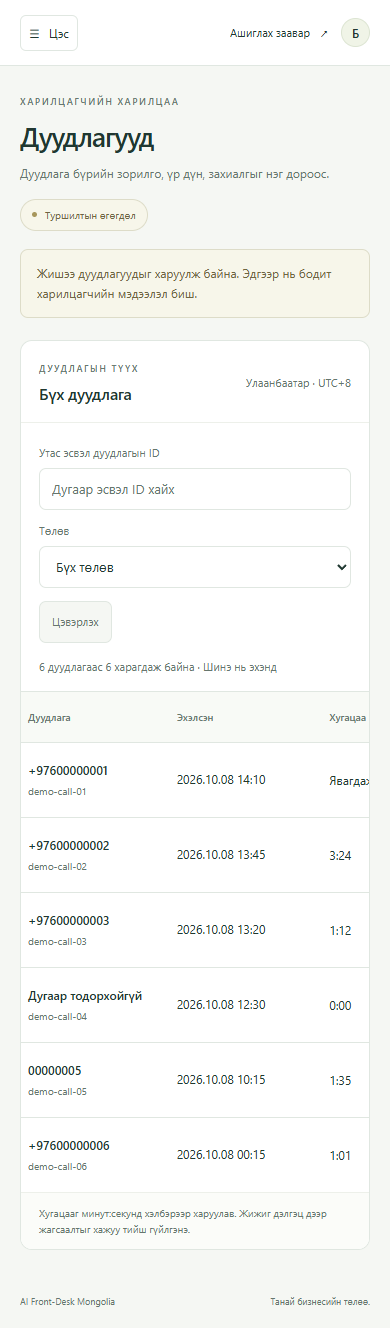
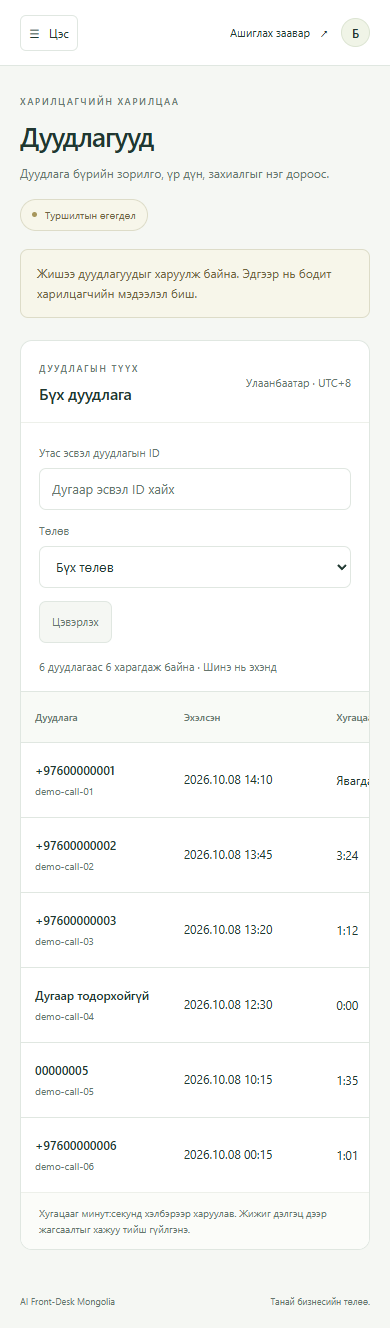
feat(web): add searchable bookings page

diff --git a/pwa/components/bookings-page.tsx b/pwa/components/bookings-page.tsx
@@ -1,0 +1,73 @@
+"use client";
+
+import { Fragment, useState } from "react";
+import type { Booking } from "../../backend/src/calendar/googleCalendar";
+import { formatUlaanbaatarTime as formatTime } from "@/lib/date-time";
+
+const statuses: Record<Booking["status"], string> = { confirmed: "Баталгаажсан" };
+const sources: Record<Booking["source"], string> = { AI_PHONE_AGENT: "AI утасны туслах" };
+
+export default function BookingsPage({ bookings, isDemo }: { bookings: Booking[]; isDemo: boolean }) {
+  const [query, setQuery] = useState("");
+  const [date, setDate] = useState("");
+  const [expanded, setExpanded] = useState<string | null>(null);
+  const search = query.trim().toLowerCase();
+  const phoneSearch = search.replace(/[\s()+-]/g, "");
+  const selectedDate = date.replace(/-/g, ".");
+  const filtered = bookings.filter((booking) => (!date || formatTime(booking.startTime).startsWith(selectedDate)) &&
+    (!search || [booking.customerName, booking.serviceName, booking.id].some((value) => value.toLowerCase().includes(search)) ||
+      (/^\d+$/.test(phoneSearch) && booking.phone.includes(phoneSearch))));
+
+  function reset() { setQuery(""); setDate(""); setExpanded(null); }
+
+  return <>
+    <div className="page-heading">
+      <div><p className="eyebrow">ЦАГ ТОВЛОЛТ</p><h1>Захиалгууд</h1><p className="page-description">Харилцагч, үйлчилгээ, товлосон цагаа нэг дороос.</p></div>
+      <span className="waiting-badge"><span aria-hidden="true" />{isDemo ? "Туршилтын өгөгдөл" : "Холболт хүлээж байна"}</span>
+    </div>
+    <p className="calls-notice">{isDemo
+      ? "Жишээ захиалгуудыг харуулж байна. Эдгээр нь бодит харилцагчийн мэдээлэл эсвэл Calendar захиалга биш."
+      : "Захиалгын мэдээлэл хараахан холбогдоогүй байна. Холбогдсоны дараа жагсаалт энд харагдана."}</p>
+    <section className="panel" aria-labelledby="bookings-title">
+      <div className="panel-heading"><div><p className="eyebrow">ЗАХИАЛГЫН ЖАГСААЛТ</p><h2 id="bookings-title">Бүх захиалга</h2></div><span className="calls-timezone">Улаанбаатар · UTC+8</span></div>
+      <div className="calls-filters">
+        <label className="calls-search">Нэр, утас, үйлчилгээ эсвэл ID<input type="search" value={query} placeholder="Харилцагч эсвэл захиалга хайх" onChange={(event) => { setQuery(event.target.value); setExpanded(null); }} disabled={!bookings.length} /></label>
+        <label>Өдөр · Улаанбаатар<input type="date" value={date} onChange={(event) => { setDate(event.target.value); setExpanded(null); }} disabled={!bookings.length} /></label>
+        <button type="button" className="calls-button" onClick={reset} disabled={!query && !date}>Цэвэрлэх</button>
+      </div>
+      {bookings.length > 0 && <p className="calls-count" role="status">{bookings.length} захиалгаас {filtered.length} харагдаж байна · Эхлэх цагаар өсөх дараалал</p>}
+      {filtered.length > 0 ? <div className="calls-table-scroll" role="region" aria-label="Захиалгын жагсаалт, жижиг дэлгэц дээр хажуу тийш гүйлгэнэ" tabIndex={0}>
+        <table className="calls-table">
+          <caption className="sr-only">Захиалгууд, эхлэх цагаар өсөх дарааллаар</caption>
+          <thead><tr><th scope="col">Харилцагч</th><th scope="col">Үйлчилгээ</th><th scope="col">Эхлэх цаг</th><th scope="col">Хугацаа</th><th scope="col">Төлөв</th><th scope="col">Эх үүсвэр</th><th scope="col"><span className="sr-only">Дэлгэрэнгүй</span></th></tr></thead>
+          <tbody>{filtered.map((booking) => {
+            const detailId = `booking-detail-${encodeURIComponent(booking.id)}`;
+            return <Fragment key={booking.id}>
+              <tr className="call-row booking-row">
+                <th scope="row"><strong>{booking.customerName}</strong><small>{booking.phone}</small></th>
+                <td>{booking.serviceName}</td>
+                <td><time dateTime={booking.startTime}>{formatTime(booking.startTime)}</time></td>
+                <td>{booking.durationMinutes} мин</td>
+                <td><span className="call-status call-status-completed">{statuses[booking.status]}</span></td>
+                <td>{sources[booking.source]}</td>
+                <td><button type="button" className="calls-button" aria-expanded={expanded === booking.id} aria-controls={detailId} onClick={() => setExpanded(expanded === booking.id ? null : booking.id)}>{expanded === booking.id ? "Хураах" : "Дэлгэрэнгүй"}<span className="sr-only"> {booking.id}</span></button></td>
+              </tr>
+              <tr id={detailId} hidden={expanded !== booking.id}><td colSpan={7} className="call-detail"><dl>
+                <div><dt>Захиалгын ID</dt><dd>{booking.id}</dd></div>
+                <div><dt>Calendar event ID</dt><dd>{booking.calendarEventId}</dd></div>
+                <div><dt>Үйлчилгээний ID</dt><dd>{booking.serviceId}</dd></div>
+                <div><dt>Дуусах цаг · Улаанбаатар</dt><dd><time dateTime={booking.endTime}>{formatTime(booking.endTime)}</time></dd></div>
+                <div><dt>Эх үүсвэр</dt><dd>{sources[booking.source]}</dd></div>
+              </dl></td></tr>
+            </Fragment>;
+          })}</tbody>
+        </table>
+      </div> : <div className="empty-state">
+        <h3>{bookings.length ? "Тохирох захиалга олдсонгүй" : "Захиалгын жагсаалт хараахан алга"}</h3>
+        <p>{bookings.length ? "Хайлтаа өөрчлөх эсвэл өдрийн шүүлтүүрээ цэвэрлээрэй." : "Мэдээлэл холбогдмогц захиалгууд энд харагдана."}</p>
+        {bookings.length > 0 && <button type="button" className="calls-button" onClick={reset}>Бүх захиалгыг харах</button>}
+      </div>}
+      <p className="connection-note">Огноо, цагийг Улаанбаатарын цагаар харуулна. Жижиг дэлгэц дээр жагсаалтыг хажуу тийш гүйлгэнэ.</p>
+    </section>
+  </>;
+}

diff --git a/pwa/lib/bookings.ts b/pwa/lib/bookings.ts
@@ -1,0 +1,41 @@
+import type { Booking } from "../../backend/src/calendar/googleCalendar";
+
+const demoBookings: Booking[] = [
+  {
+    id: "demo-booking-01", calendarEventId: "demo-event-01", customerName: "А. Энхжин", phone: "+97600000002",
+    serviceId: "haircut", serviceName: "Үс засалт", startTime: "2026-10-08T07:00:00.000Z", endTime: "2026-10-08T07:30:00.000Z",
+    durationMinutes: 30, status: "confirmed", source: "AI_PHONE_AGENT",
+  },
+  {
+    id: "demo-booking-02", calendarEventId: "demo-event-02", customerName: "Б. Тэмүүлэн", phone: "+97600000012",
+    serviceId: "haircut", serviceName: "Үс засалт", startTime: "2026-10-08T01:00:00.000Z", endTime: "2026-10-08T01:30:00.000Z",
+    durationMinutes: 30, status: "confirmed", source: "AI_PHONE_AGENT",
+  },
+  {
+    id: "demo-booking-03", calendarEventId: "demo-event-03", customerName: "Д. Саруул", phone: "00000013",
+    serviceId: "hair-color", serviceName: "Үс будах", startTime: "2026-10-08T03:00:00.000Z", endTime: "2026-10-08T04:30:00.000Z",
+    durationMinutes: 90, status: "confirmed", source: "AI_PHONE_AGENT",
+  },
+  {
+    id: "demo-booking-04", calendarEventId: "demo-event-04", customerName: "Н. Номин", phone: "+97600000014",
+    serviceId: "manicure", serviceName: "Маникюр", startTime: "2026-10-08T16:15:00.000Z", endTime: "2026-10-08T17:00:00.000Z",
+    durationMinutes: 45, status: "confirmed", source: "AI_PHONE_AGENT",
+  },
+  {
+    id: "demo-booking-05", calendarEventId: "demo-event-05", customerName: "О. Мөнхжин", phone: "+97600000015",
+    serviceId: "hair-color", serviceName: "Үс будах", startTime: "2026-10-09T01:00:00.000Z", endTime: "2026-10-09T02:30:00.000Z",
+    durationMinutes: 90, status: "confirmed", source: "AI_PHONE_AGENT",
+  },
+  {
+    id: "demo-booking-06", calendarEventId: "demo-event-06", customerName: "С. Анужин", phone: "+97600000016",
+    serviceId: "manicure", serviceName: "Маникюр", startTime: "2026-10-09T04:30:00.000Z", endTime: "2026-10-09T05:15:00.000Z",
+    durationMinutes: 45, status: "confirmed", source: "AI_PHONE_AGENT",
+  },
+];
+
+export function getBookings(): { bookings: Booking[]; isDemo: boolean } {
+  const isDemo = process.env.NEXT_PUBLIC_USE_MOCK_API === "true";
+  // ponytail: synthetic history only until a reviewed, authenticated booking-list API exists.
+  const bookings = isDemo ? [...demoBookings].sort((a, b) => Date.parse(a.startTime) - Date.parse(b.startTime) || a.id.localeCompare(b.id)) : [];
+  return { bookings, isDemo };
+}

diff --git a/pwa/components/calls-page.tsx b/pwa/components/calls-page.tsx
@@ -2,6 +2,7 @@
 
 import { Fragment, useState } from "react";
 import type { CallSession } from "../../backend/src/calls/store";
+import { formatUlaanbaatarTime as formatTime } from "@/lib/date-time";
 
 const statuses: Record<CallSession["status"], string> = {
   active: "Явагдаж байна", completed: "Дууссан", failed: "Амжилтгүй", handed_off: "Ажилтанд шилжсэн",
@@ -11,15 +12,6 @@ const intents: Record<NonNullable<CallSession["intent"]>, string> = {
   BOOK_APPOINTMENT: "Цаг захиалах", CANCEL_BOOKING: "Захиалга цуцлах", ASK_PRODUCT: "Бүтээгдэхүүн асуусан",
   REQUEST_HUMAN: "Ажилтантай холбогдох", GENERAL_QUERY: "Ерөнхий асуулт",
 };
-const dateFormat = new Intl.DateTimeFormat("en-GB", {
-  timeZone: "Asia/Ulaanbaatar", year: "numeric", month: "2-digit", day: "2-digit",
-  hour: "2-digit", minute: "2-digit", hourCycle: "h23",
-});
-
-function formatTime(value: string) {
-  const parts = Object.fromEntries(dateFormat.formatToParts(new Date(value)).map(({ type, value: part }) => [type, part]));
-  return `${parts.year}.${parts.month}.${parts.day} ${parts.hour}:${parts.minute}`;
-}
 
 export default function CallsPage({ calls, isDemo }: { calls: CallSession[]; isDemo: boolean }) {
   const [query, setQuery] = useState("");

diff --git a/pwa/components/dashboard-shell.tsx b/pwa/components/dashboard-shell.tsx
@@ -6,7 +6,7 @@ import { usePathname } from "next/navigation";
 const sections = [
   { label: "Ерөнхий тойм", href: "/dashboard", enabled: true, path: "M3 3h7v7H3zM14 3h7v7h-7zM3 14h7v7H3zM14 14h7v7h-7z" },
   { label: "Дуудлагууд", href: "/calls", enabled: true, path: "M7 3H4a1 1 0 0 0-1 1c0 9.4 7.6 17 17 17a1 1 0 0 0 1-1v-3l-5-2-2 2a14 14 0 0 1-7-7l2-2-2-5Z" },
-  { label: "Захиалгууд", href: "/bookings", enabled: false, path: "M5 5h14a2 2 0 0 1 2 2v12a2 2 0 0 1-2 2H5a2 2 0 0 1-2-2V7a2 2 0 0 1 2-2ZM7 3v4m10-4v4M3 11h18m-13 5h3" },
+  { label: "Захиалгууд", href: "/bookings", enabled: true, path: "M5 5h14a2 2 0 0 1 2 2v12a2 2 0 0 1-2 2H5a2 2 0 0 1-2-2V7a2 2 0 0 1 2-2ZM7 3v4m10-4v4M3 11h18m-13 5h3" },
   { label: "Мэдээллийн сан", href: "/knowledge", enabled: false, path: "M12 5C9 3 5 3 2 4v15c3-1 7-1 10 1 3-2 7-2 10-1V4c-3-1-7-1-10 1Zm0 0v15" },
   { label: "Тайлан", href: "/analytics", enabled: false, path: "M4 3v17h17M8 15v-4m5 4V7m5 8V4" },
   { label: "Туршилтын дуудлага", href: "/demo", enabled: false, path: "M9 4v16l12-8L9 4ZM3 5v14" },

diff --git a/pwa/lib/date-time.ts b/pwa/lib/date-time.ts
@@ -1,0 +1,9 @@
+const dateFormat = new Intl.DateTimeFormat("en-GB", {
+  timeZone: "Asia/Ulaanbaatar", year: "numeric", month: "2-digit", day: "2-digit",
+  hour: "2-digit", minute: "2-digit", hourCycle: "h23",
+});
+
+export function formatUlaanbaatarTime(value: string) {
+  const parts = Object.fromEntries(dateFormat.formatToParts(new Date(value)).map(({ type, value: part }) => [type, part]));
+  return `${parts.year}.${parts.month}.${parts.day} ${parts.hour}:${parts.minute}`;
+}

diff --git a/pwa/app/(workspace)/bookings/page.tsx b/pwa/app/(workspace)/bookings/page.tsx
@@ -1,0 +1,9 @@
+import type { Metadata } from "next";
+import BookingsPage from "@/components/bookings-page";
+import { getBookings } from "@/lib/bookings";
+
+export const metadata: Metadata = { title: "Захиалгууд · AI Front-Desk Mongolia" };
+
+export default function Page() {
+  return <BookingsPage {...getBookings()} />;
+}

diff --git a/pwa/README.md b/pwa/README.md
@@ -2,7 +2,7 @@
 
 `/` redirects to `/dashboard`. The `(workspace)` route group shares the sidebar,
 header and content frame. Navigation labels are Mongolian. Future
-Bookings, Knowledge, Analytics, Demo and Settings sections are visibly disabled
+Knowledge, Analytics, Demo and Settings sections are visibly disabled
 until their own feature PRs add working routes.
 
 The overview currently shows empty metrics/activity and unknown connection
@@ -77,3 +77,36 @@ state and browser runtime errors. Demo mode refreshes these review screenshots:
 
 ![Desktop calls](docs/calls-desktop.png)
 ![Mobile calls](docs/calls-mobile.png)
+
+## Bookings
+
+`/bookings` lists customers, phone numbers, services, start times, durations,
+statuses and sources. Search by customer, formatted phone, service or booking ID,
+and combine the search with a day filter in `Asia/Ulaanbaatar`. All dates use the
+same formatter as Calls. Results are ordered by appointment start, earliest first.
+Expand a row for booking/service IDs, the Calendar event ID and the end time.
+
+`lib/bookings.ts` reuses the backend `Booking` type through a type-only import.
+The current contract supports only `confirmed` and `AI_PHONE_AGENT`; the UI does
+not invent cancellation or completion states. The page reuses the Calls table,
+filter and responsive styles without adding a UI dependency.
+
+The same `NEXT_PUBLIC_USE_MOCK_API=true` flag enables six explicitly labelled,
+synthetic bookings; otherwise the page shows a connection-pending empty state.
+These fixtures are not real Calendar events. There is no booking-list API or
+authentication yet, so no backend data or credentials are loaded into the page.
+Live listing and create/edit/cancel actions belong to a separate integration PR.
+
+With the temporary browser tooling and running app from the instructions above:
+
+```powershell
+$env:EXPECT_MOCK_BOOKINGS = 'true' # Match the build's mock flag; also check false.
+node pwa/scripts/check-bookings.cjs
+```
+
+The browser check covers sorting, search, combined local-day filtering across UTC
+midnight, reset/empty results, keyboard details/scrolling, mobile navigation and
+five viewport widths. Run the Calls check too when changing the shared formatter.
+
+![Desktop bookings](docs/bookings-desktop.png)
+![Mobile bookings](docs/bookings-mobile.png)
